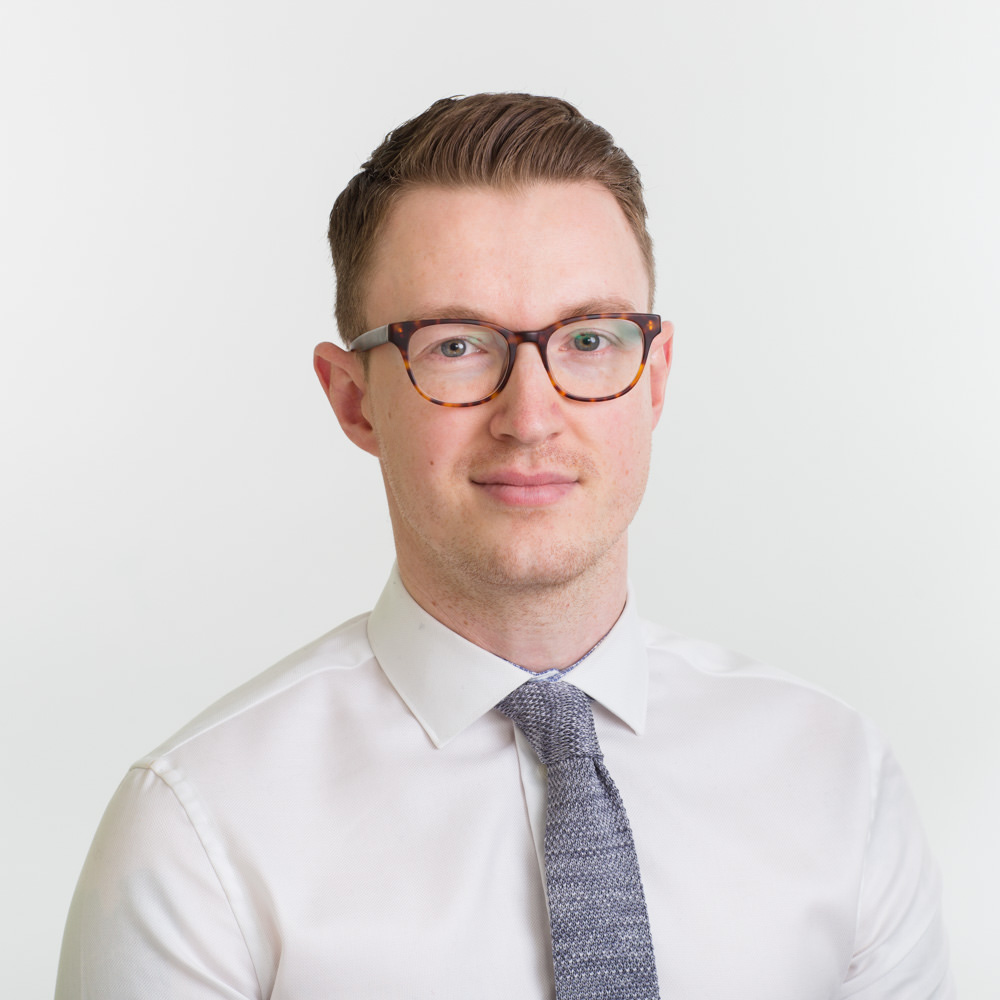
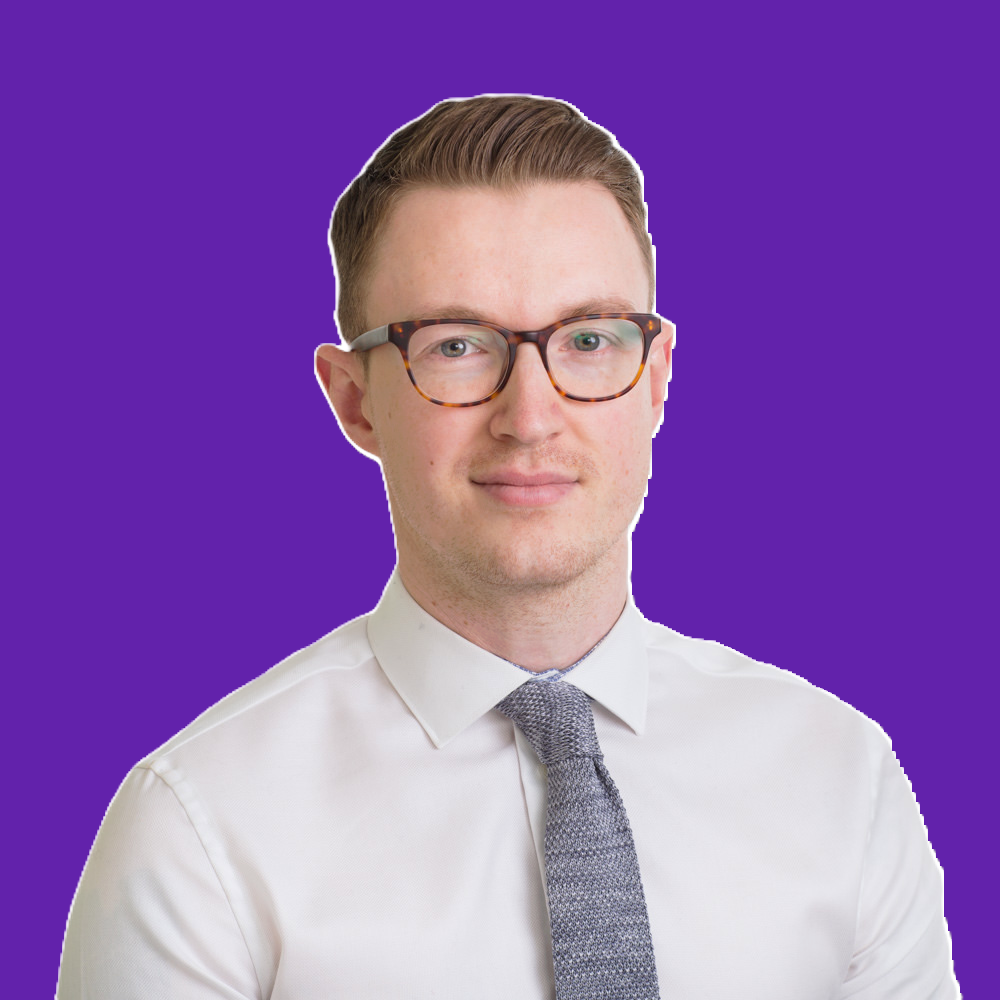
Update-About

diff --git a/index.html b/index.html
@@ -151,7 +151,6 @@
                     <div class="col-lg-4 col-md-6 text-item d-flex">
                          <div class="box-icons flex-shrink-0">
                               <i class="icons-for bi bi-bar-chart"></i>
-
                          </div>
                          <div>
                               <span class="title">
@@ -197,95 +196,112 @@
      <!-- Box-List End -->
 
      <!-- About Start -->
-     <section class="about" id="About">
+     <section id="About" class="about">
           <div class="container">
-               <div class="about-content">
-                    <span class="about-title fs-1 fw-bold">
-                         > Bio Personal
-                    </span>
-                    <p class="about-description pt-3">
-                         Lorem ipsum dolor sit amet consectetur, adipisicing elit. Nihil enim sit, at numquam sed
-                         officiis sint tenetur dolores id! A et atque voluptatum modi. Dignissimos corporis facilis,
-                         quidem quaerat provident repellat laborum dolore placeat temporibus quos suscipit sunt, ratione
-                         velit itaque officiis nesciunt necessitatibus doloribus doloremque molestiae amet? Iusto
-                         nostrum hic modi adipisci similique vitae fuga. Unde obcaecati sequi modi, asperiores
-                         repudiandae repellat veniam nulla sapiente quo accusantium facilis ex commodi quas, est velit
-                         necessitatibus alias adipisci repellendus libero aut debitis! Veritatis repellat sit quia
-                         ipsum? Harum illo, natus nostrum nesciunt pariatur expedita culpa blanditiis tenetur aliquid,
-                         nihil voluptatem facilis totam incidunt omnis, repellendus temporibus illum nulla! Explicabo
-                         eligendi earum quos adipisci voluptate voluptatum dignissimos illum autem, quod eaque? Totam
-                         odio tempora natus ullam blanditiis excepturi ut sit aut fugiat cupiditate dolores
-                         voluptatibus, repellat numquam at aliquid! Fugiat, magnam cum accusamus aliquam optio, magni
-                         quo modi culpa harum facilis perspiciatis? Quod rem laudantium qui totam velit dolor dolores
-                         sit id quam repudiandae? Recusandae id voluptates similique, ex aliquid possimus quae nihil
-                         perspiciatis asperiores! Ullam inventore eius eveniet dolores assumenda aut itaque illum
-                         aliquid molestiae eos aspernatur ut sint deserunt culpa, numquam, adipisci nobis porro officiis
-                         sapiente provident quasi veritatis? Perferendis quam voluptas minima voluptatem? Aspernatur
-                         labore maiores aperiam. Mollitia libero ipsa alias excepturi id ex aut blanditiis natus harum
-                         adipisci dicta quia sequi incidunt, ratione sapiente iure voluptate quisquam numquam quidem
-                         laborum culpa, est doloremque! Nam eveniet ab reiciendis aliquam blanditiis dolore dolor eos,
-                         dolorem placeat iste necessitatibus fugit architecto?
-                    </p>
+               <div class="row justify-content-center">
+                    <div class="about-content col-xxl-4 col-xl-5 col-lg-5">
+                         <img src="/img/Profile.png" class="img-fluid rounded-3" alt="about-content">
+                    </div>
+                    <div class="about-infomation col-xxl-8 col-xl-7 col-lg-7 align-self-center">
+                         <span class="about-brand fw-bolder fs-1">Personal Date</span>
+                         <p class="about-description fst-italic">
+                              Lorem ipsum dolor sit amet consectetur adipisicing elit. Exercitationem in dolorum
+                              commodi! Impedit at iure tenetur architecto cum mollitia dolor? Praesentium, doloribus.
+                              Numquam dolore at ipsum perspiciatis aspernatur odio expedita, rerum corporis magni
+                              repudiandae id et, tempora consectetur, molestiae distinctio. Repellendus, aspernatur
+                              magnam cumque culpa omnis, delectus porro ut labore officia facere eos nulla quod!
+                         </p>
+                         <div class="row">
+                              <div class="date-list-1 col-xxl-6 col-xl-6 col-lg-6">
+                                   <ul>
+                                        <li class="list">
+                                             <i class="check bi bi-chevron-right"></i> <strong>Birthday:</strong>
+                                             <span>1 May 1995</span>
+                                        </li>
+                                        <li class="list">
+                                             <i class="check bi bi-chevron-right"></i> <strong>Website:</strong>
+                                             <span>www.example.com</span>
+                                        </li>
+                                        <li class="list">
+                                             <i class="check bi bi-chevron-right"></i> <strong>Phone:</strong>
+                                             <span>+123 456 7890</span>
+                                        </li>
+                                        <li class="list">
+                                             <i class="check bi bi-chevron-right"></i> <strong>City:</strong>
+                                             <span>New York, USA</span>
+                                        </li>
+                                   </ul>
+                              </div>
+                              <div class="data-list-2 col-xxl-6 col-xl-6 col-lg-6">  
+                                   <ul>
+                                        <li class="list">
+                                             <i class="check bi bi-chevron-right"></i> <strong>Age:</strong>
+                                             <span>30</span>
+                                        </li>
+                                        <li class="list">
+                                             <i class="check bi bi-chevron-right"></i> <strong>Degree:</strong>
+                                             <span>Master</span>
+                                        </li>
+                                        <li class="list">
+                                             <i class="check bi bi-chevron-right"></i> <strong>Gmail:</strong>
+                                             <span>email@example.com</span>
+                                        </li>
+                                        <li class="list">
+                                             <i class="check bi bi-chevron-right"></i> <strong>Freelance:</strong>
+                                             <span>Available</span>
+                                        </li>
+                                   </ul>
+                              </div>
+                         </div>
+                         <div class="row">
+                              <div class="date-list-3 col-xxl-6 col-xl-6 col-lg-6">
+                                   <ul>
+                                        <li class="list">
+                                             <i class="check bi bi-chevron-right"></i> <strong>Status:</strong>
+                                             <span>Software Engginer</span>
+                                        </li>
+                                        <li class="list">
+                                             <i class="check bi bi-chevron-right"></i> <strong>Education:</strong>
+                                             <span>Development</span>
+                                        </li>
+                                        <li class="list">
+                                             <i class="check bi bi-chevron-right"></i> <strong>School:</strong>
+                                             <span>Stanford University</span>
+                                        </li>
+                                        <li class="list">
+                                             <i class="check bi bi-chevron-right"></i> <strong>Department:</strong>
+                                             <span>Caltech</span>
+                                        </li>
+                                   </ul>
+                              </div>
+                              <div class="data-list-4 col-xxl-6 col-xl-6 col-lg-6">
+                                   <ul>
+                                        <li class="list">
+                                             <i class="check bi bi-chevron-right"></i> <strong>Family:</strong>
+                                             <span>Not Now</span>
+                                        </li>
+                                        <li class="list">
+                                             <i class="check bi bi-chevron-right"></i> <strong>Works:</strong>
+                                             <span>Yes it works</span>
+                                        </li>
+                                        <li class="list">
+                                             <i class="check bi bi-chevron-right"></i> <strong>Compony:</strong>
+                                             <span>Microsoft ID</span>
+                                        </li>
+                                        <li class="list">
+                                             <i class="check bi bi-chevron-right"></i> <strong>Position:</strong>
+                                             <span>Management Staff</span>
+                                        </li>
+                                   </ul>
+                              </div>
+                         </div>
+                    </div>
                </div>
           </div>
      </section>
      <!-- About End -->
 
      <!-- Profile Start -->
-     <section id="Profile" class="profile">
-          <div class="container">
-               <div class="row">
-                    <div class="profile-content col-lg-4">
-                         <img src="/img/Profile.png" class="img-fluid rounded-3" alt="">
-                    </div>
-                    <div class="col-lg-8 pt-4 pt-lg-0 content align-self-center">
-                         <span class="profile-brand fw-bolder fs-1">Personal Date</span>
-                         <p class="fst-italic">
-                              Lorem ipsum dolor sit amet, consectetur adipiscing elit, sed do eiusmod tempor incididunt
-                              ut labore et dolore
-                              magna aliqua.
-                         </p>
-                         <div class="row">
-                              <div class="col-lg-6">
-                                   <ul>
-                                        <li><i class="bi bi-chevron-right"></i> <strong>Birthday:</strong> <span>1 May
-                                                  1995</span></li>
-                                        <li><i class="bi bi-chevron-right"></i> <strong>Website:</strong>
-                                             <span>www.example.com</span>
-                                        </li>
-                                        <li><i class="bi bi-chevron-right"></i> <strong>Phone:</strong> <span>+123 456
-                                                  7890</span></li>
-                                        <li><i class="bi bi-chevron-right"></i> <strong>City:</strong> <span>New York,
-                                                  USA</span></li>
-                                   </ul>
-                              </div>
-                              <div class="col-lg-6">
-                                   <ul>
-                                        <li><i class="bi bi-chevron-right"></i> <strong>Age:</strong> <span>30</span>
-                                        </li>
-                                        <li><i class="bi bi-chevron-right"></i> <strong>Degree:</strong>
-                                             <span>Master</span>
-                                        </li>
-                                        <li><i class="bi bi-chevron-right"></i> <strong>PhEmailone:</strong>
-                                             <span>email@example.com</span>
-                                        </li>
-                                        <li><i class="bi bi-chevron-right"></i> <strong>Freelance:</strong>
-                                             <span>Available</span>
-                                        </li>
-                                   </ul>
-                              </div>
-                         </div>
-                         <p>
-                              Officiis eligendi itaque labore et dolorum mollitia officiis optio vero. Quisquam sunt
-                              adipisci omnis et ut. Nulla accusantium dolor incidunt officia tempore. Et eius omnis.
-                              Cupiditate ut dicta maxime officiis quidem quia. Sed et consectetur qui quia repellendus
-                              itaque neque. Aliquid amet quidem ut quaerat cupiditate. Ab et eum qui repellendus omnis
-                              culpa magni laudantium dolores.
-                         </p>
-                    </div>
-               </div>
-          </div>
-     </section>
      <!-- Profile End -->
 
      <!-- Project Start -->

diff --git a/css/index.css b/css/index.css
@@ -39,12 +39,10 @@
 
 #navbar {
      transition: transform 0.3s ease-in-out;
-     /* Transition for transform */
 }
 
 #navbar.hidden {
      transform: translateY(-100%);
-     /* Slide up to hide */
 }
 
 
@@ -100,6 +98,7 @@
 (max-width: 990px) {
      .navbar .container .offcanvas {
           width: 35vh;
+          height: 200vh;
           background-color: var(--Color-default-6);
      }
 
@@ -252,13 +251,22 @@
      padding-bottom: 3rem;
 }
 
-.about .container .about-content .about-title {
-     color: var(--Color-default-7);
+.about .about-brand {
+     color: var(--Color-default-3);
      font-family: var(--Font-default-1);
 }
 
-.about .container .about-content .about-description {
-     font-size: 14px;
+.about .container .list {
+     margin-left: -32px;
+     list-style: none;
+}
+
+.about .container .check {
+     color: var(--Color-default-3);
+}
+
+.about .container .about-description {
+     font-size: 15px;
      text-align: justify;
      font-family: var(--Font-default-2);
 }
@@ -266,8 +274,14 @@
 /* Media query Headphone */
 @media (max-width: 575px) {
      .about {
-          padding-top: 2rem;
+          padding-top: 3rem;
           padding-bottom: 2rem;
+     }
+}
+
+@media (max-width: 1200px) {
+     .about .container .about-content .img-fluid {
+          height: 75vh;
      }
 }
 
@@ -275,41 +289,20 @@
 @media (max-width: 375px),
 (max-width: 425px),
 (max-width: 863px),
-(max-width: 990px) {
+(max-width: 990px),
+(max-width: 1024px) {
      .about {
-          padding-top: 2rem;
+          padding-top: 3rem;
           padding-bottom: 2rem;
+     }
+
+     .about .container .about-content .img-fluid {
+          width: 100%;
+          height: 100%;
      }
 }
 
 /* About End */
-
-/* Profile Start */
-.profile {
-     padding-top: 4rem;
-     padding-bottom: 4rem;
-}
-
-/* Media query Headphone */
-@media (max-width: 575px) {
-     .profile {
-          padding-top: 4rem;
-          padding-bottom: 3rem;
-     }
-}
-
-/* Media Query Tablet And Headphone */
-@media (max-width: 375px),
-(max-width: 425px),
-(max-width: 863px),
-(max-width: 990px) {
-     .profile {
-          padding-top: 4rem;
-          padding-bottom: 3rem;
-     }
-}
-
-/* Profile End */
 
 /* Theme Mode/Loading Screen Start */
 .btn-mode {

diff --git a/js/index.js b/js/index.js
@@ -62,7 +62,7 @@
      const updateWorksBackground = theme => {
           const worksSection = document.querySelector('.works');
           if (worksSection) {
-               worksSection.style.backgroundColor =theme === 'dark' ? '#343a40' : 'beige';
+               worksSection.style.backgroundColor = theme === 'dark' ? '#343a40' : 'beige';
           }
      };
      const darkModeToggle = document.getElementById('darkModeToggle');
@@ -95,13 +95,13 @@
      document.body.classList.add('loading-overlay-active');
 })();
 let lastScrollTop = 0;
-window.addEventListener("scroll", function() {
-  let currentScroll = window.pageYOffset || document.documentElement.scrollTop;
-  if (currentScroll > lastScrollTop) {
-    document.getElementById("navbar").classList.add("hidden");
-  } else {
-    document.getElementById("navbar").classList.remove("hidden");
-  }
-  lastScrollTop = currentScroll <= 0 ? 0 : currentScroll; 
+window.addEventListener("scroll", function () {
+     let currentScroll = window.pageYOffset || document.documentElement.scrollTop;
+     if (currentScroll > lastScrollTop) {
+          document.getElementById("navbar").classList.add("hidden");
+     } else {
+          document.getElementById("navbar").classList.remove("hidden");
+     }
+     lastScrollTop = currentScroll <= 0 ? 0 : currentScroll;
 });
 
